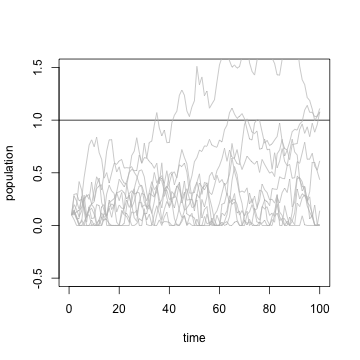
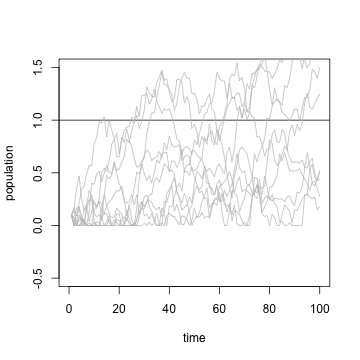
revision2 fixed

Changed region(s): [[0.1833, 0.1528, 0.8861, 0.6417], [0.6417, 0.1528, 0.6722, 0.2139], [0.7944, 0.2139, 0.825, 0.2444]]

diff --git a/monitoring_knit_.md b/monitoring_knit_.md
@@ -46,7 +46,7 @@ poprep=function(init){x=numeric(100); x[1]=init; for(i in 1:99){x[i+1] = pop.bh(
 outs = sapply(rep(1,REPS), poprep)
 plot(0,0, pch='', ylim=c(-.5,1.5),xlim=c(0,100), xlab='time', ylab='stock')
 abline(h=(a-1)/b)
-for(i in 1:length(outs)){ lines(1:100,outs[,i],col=col.alpha('grey',0.9))}
+for(i in 1:dim(outs)[2]){lines(1:100,outs[,i],col=col.alpha('grey',0.9))}
 
 end.rcode-->
 
@@ -65,7 +65,7 @@ poprep=function(init){x=numeric(100); x[1]=init; for(i in 1:99){x[i+1] = pop.bh(
 outs = sapply(rep(0.1,REPS), poprep)
 plot(0,0, pch='', ylim=c(-.5,1.5),xlim=c(0,100), xlab='time', ylab='population')
 abline(h=(a-1)/b)
-for(i in 1:length(outs)){ lines(1:100,outs[,i],col=col.alpha('grey',0.9))}
+for(i in 1:dim(outs)[2]){lines(1:100,outs[,i],col=col.alpha('grey',0.9))}
 end.rcode-->
 
 ## Issues in mointoring populations ##
@@ -112,15 +112,6 @@ Tradeoff from status (left) to trend (right) with constant effort
 ### Bayesian example: random walk ###
 
 ### power ###
-
-  
-
-<!--begin.rcode,echo=FALSE
-#require(ggplot2)
-
-
-end.rcode-->
-
 
 # Knitr #
 

diff --git a/monitoring.md b/monitoring.md
@@ -25,20 +25,14 @@ Fishery example
 
 
 
-![plot of chunk resources](https://github.com/ashander/sandbox/raw/master/resources.png)```
-## Error: subscript out of bounds
-```
-
+![plot of chunk resources](https://github.com/ashander/sandbox/raw/master/resources.png)
 
 
 ### Species (of concern) ###
 
 Recovery example
   
-![plot of chunk recovery](https://github.com/ashander/sandbox/raw/master/recovery.png)```
-## Error: subscript out of bounds
-```
-
+![plot of chunk recovery](https://github.com/ashander/sandbox/raw/master/recovery.png)
 
 
 ## Issues in mointoring populations ##
@@ -85,12 +79,6 @@ Tradeoff from status (left) to trend (right) with constant effort
 ### Bayesian example: random walk ###
 
 ### power ###
-
-  
-
-
-
-
 
 # Knitr #
 
